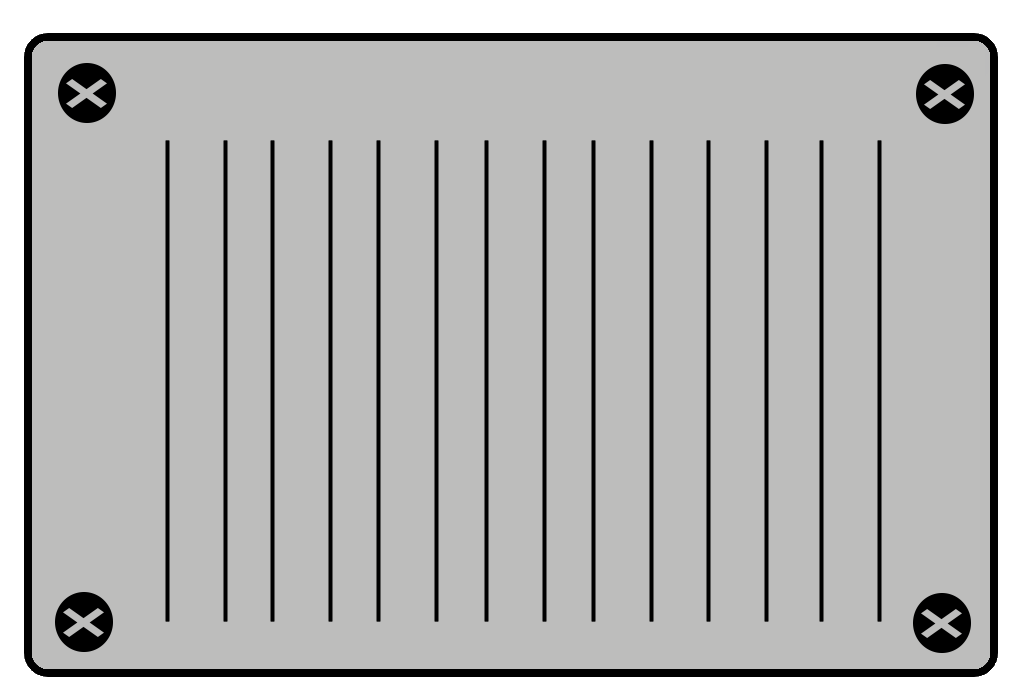
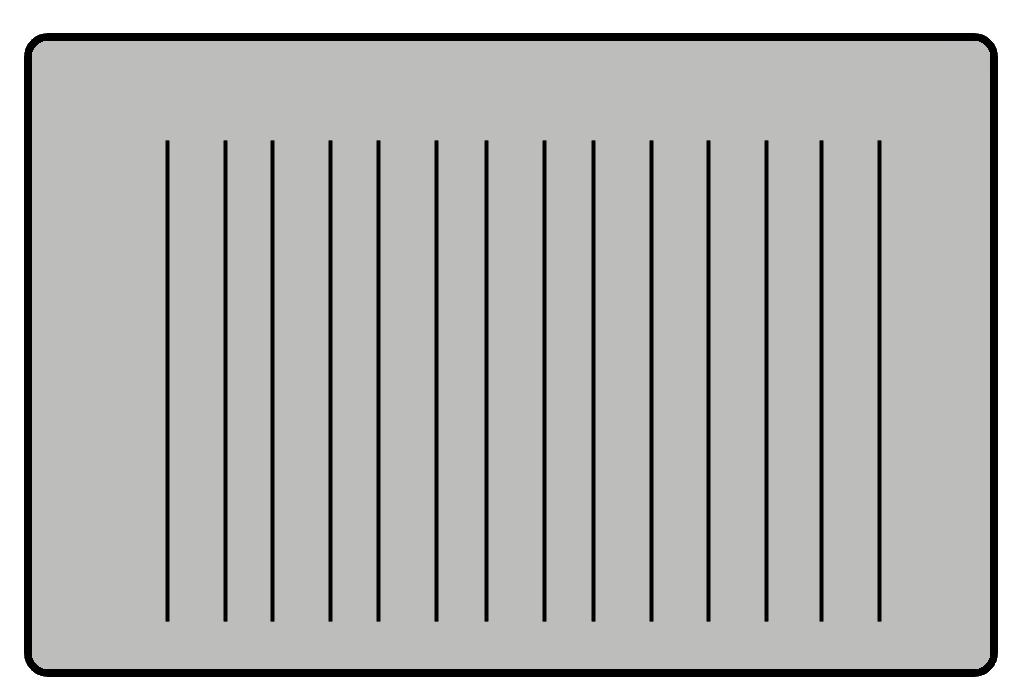
Remove the screws on the metal panel and just have it translate on click

diff --git a/src/main/java/nz/ac/auckland/se206/controllers/CrimeSceneController.java b/src/main/java/nz/ac/auckland/se206/controllers/CrimeSceneController.java
@@ -1,7 +1,5 @@
 package nz.ac.auckland.se206.controllers;
 
-import java.util.HashMap;
-import java.util.Map;
 import javafx.animation.Animation;
 import javafx.animation.KeyFrame;
 import javafx.animation.PauseTransition;
@@ -12,7 +10,6 @@ import javafx.fxml.FXML;
 import javafx.scene.image.ImageView;
 import javafx.scene.input.MouseEvent;
 import javafx.scene.layout.Pane;
-import javafx.scene.shape.Circle;
 import javafx.scene.shape.Rectangle;
 import javafx.scene.text.Text;
 import javafx.util.Duration;
@@ -45,19 +42,13 @@ public class CrimeSceneController {
   @FXML private ImageView newsStroke;
   @FXML private ImageView shelfStroke;
   @FXML private ImageView documentStroke;
-  @FXML private Circle panelTopLeftCircle;
-  @FXML private Circle panelBotLeftCircle;
-  @FXML private Circle panelTopRightCircle;
-  @FXML private Circle panelBotRightCircle;
   @FXML private Text keypadNumberDisplay1;
   @FXML private Text keypadNumberDisplay2;
   @FXML private Text keypadNumberDisplayText;
 
-  private Map<ImageView, Boolean> walletClueMap = new HashMap<>();
   private TranslateTransition cardTranslate = new TranslateTransition();
   private ImageView currentHover;
   private Thread closeClueThread = new Thread();
-  private Map<String, Boolean> circlesClicked;
   private Timeline keypadFlash;
   private int keypadNumber1;
   private int keypadNumber2;
@@ -74,7 +65,6 @@ public class CrimeSceneController {
     draggableMaker.makeDraggable(documentsGuestList);
     draggableMaker.makeDraggable(documentsInvoice);
     draggableMaker.makeDraggable(documentsLetter);
-    circlesClicked = new HashMap<>();
     startKeypadFlash(1);
     keypadNumber1 = -1;
     keypadNumber2 = -1;
@@ -109,15 +99,8 @@ public class CrimeSceneController {
   }
 
   @FXML
-  private void handleCircleClicked(MouseEvent event) {
-    Circle circleClicked = (Circle) event.getTarget();
-    String currentCircle = circleClicked.getId();
-    circlesClicked.put(currentCircle, true);
-    circleClicked.setOpacity(1);
-
-    if (circlesClicked.size() >= 4) {
-      paneTransition(metalPanelPane);
-    }
+  private void handleMetalPanel(MouseEvent event) {
+    paneTransition(metalPanelPane);
   }
 
   @FXML
